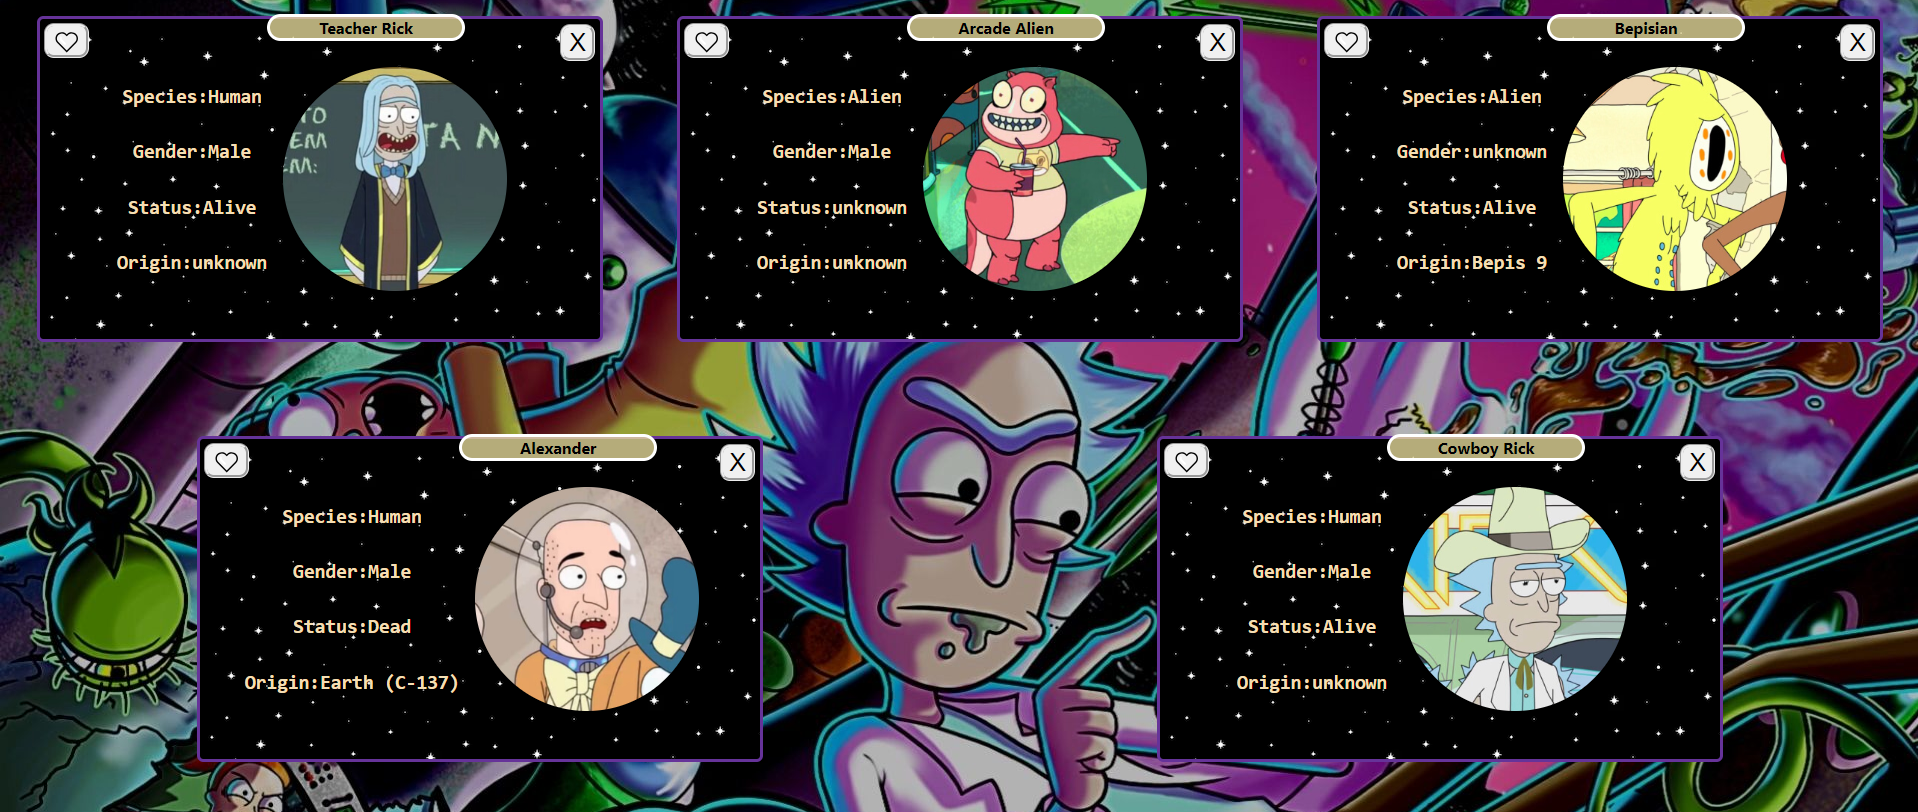
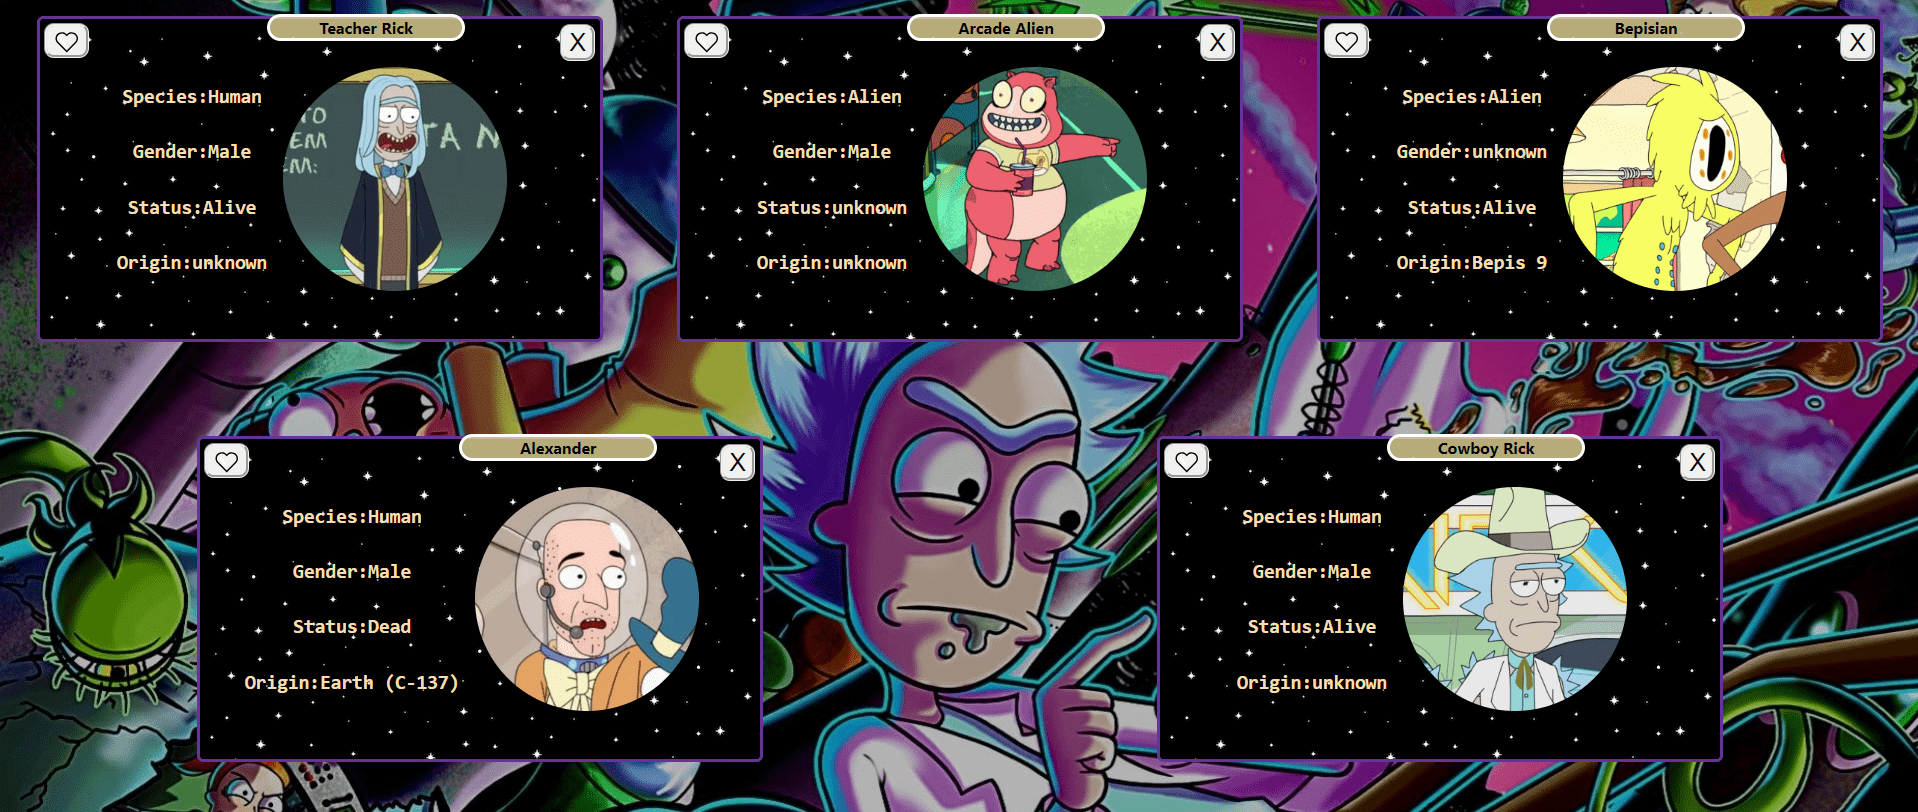
finish?

Changed region(s): [[0.4614, 0.2155, 0.4922, 0.2463], [0.4307, 0.8005, 0.4614, 0.8313]]

diff --git a/style.css b/style.css
@@ -105,8 +105,12 @@ body {
   text-decoration: none;
   color: #ffffffd8;
   font-weight: 700;
-  font-size: 1em;
+  font-size: 1.1em;
   padding: 4px;
+}
+.nav__a:hover {
+  /* color: #961d6e8f; */
+  scale: 1.1;
 }
 .header {
   line-height: 1.1;
@@ -181,7 +185,10 @@ body {
   width: 2.5em;
 }
 .home__icon:hover {
-  width: 2.2em;
+  /* width: 2.2em; */
+  scale: 1.2;
+
+  cursor: pointer;
 }
 
 .home__img {
@@ -229,8 +236,6 @@ body {
 }
 .projects {
   background: #0d314a;
-  /* width: 100vw; */
-  /* max-width: 100vw; */
 }
 .cards {
   display: flex;
@@ -239,45 +244,36 @@ body {
   gap: 32px;
 }
 .card {
-  /* padding: 50px; */
   width: 95%;
   height: auto;
-  /* ! Altura a checkearrr */
-  /* height: 25vh; */
   border: 1px #ffffff91 solid;
-
   border-radius: 10px;
   background: #171321;
-  /* position: relative; */
   padding: 16px;
   display: flex;
   flex-direction: column;
-  /* justify-content: flex-end; */
+  transition: scale 0.2s ease;
+}
+.card:hover {
+  scale: 1.01;
 }
 .card__title {
-  color: #961d6e;
-  color: #fae452;
-  color: #ffe742;
   color: #fff;
-
   text-transform: uppercase;
   font-size: 1.3em;
   padding-top: 8px;
+  text-align: center;
 }
 
 .card__container__content {
-  /* padding-right: 12px; */
-
   padding-left: 4px;
 }
 .card__image {
   width: 100%;
   height: auto;
-
   border-radius: 10px;
   transition: filter 0.5s ease;
   transition: width 0.3s ease;
-  /* z-index: 2; */
 }
 .card:hover .card__image {
   filter: grayscale(0%);
@@ -288,7 +284,6 @@ body {
   font-size: 1em;
   border-bottom: 1px solid transparent;
   transition: border-bottom 0.3s ease, font-size 0.3s ease;
-  /* display: inline-block; */
 }
 .card__link--second {
   margin-left: 8px;
@@ -296,13 +291,11 @@ body {
 .card__link:hover {
   font-size: 1.1em;
   border-bottom: 1px solid #dd65b5;
-
-  /* color: #fae452; */
 }
 .card__p {
   color: #d3d0d0;
   font-size: 1em;
-  text-align: left;
+  text-align: center;
 }
 .card--last {
   margin-bottom: 32px;
@@ -322,7 +315,6 @@ body {
 }
 .tags__tag {
   color: #171321;
-  /* background: #2d5877; */
   font-size: 0.7em;
   border-radius: 4px;
   padding: 2px;
@@ -351,14 +343,12 @@ body {
 
 .about__container_p {
   padding: 16px 32px;
-  /* margin-top: 16px; */
   background: #171321;
   border: 1px #961d6e solid;
   border-radius: 16px;
 }
 .about__p {
   color: #d3d0d0;
-  /* font-weight: 900; */
 }
 .contact {
   display: flex;
@@ -370,8 +360,6 @@ body {
   flex-direction: column;
   width: 100%;
   padding: 16px;
-  /* max-width: 80%; */
-  /* align-items: center; */
 }
 .form__section {
   display: flex;
@@ -402,7 +390,6 @@ body {
   padding: 10px;
   border-radius: 10px;
   border: none;
-  /* text-transform: uppercase; */
   transition: padding 0.1s ease-in-out;
   background: #dd65b5;
   color: #fff;
@@ -425,7 +412,6 @@ body {
     width: 320px;
   }
   .home__parrafo {
-    /* font-size: 1.4em; */
     width: 90%;
   }
   .icon-container {
@@ -457,7 +443,7 @@ body {
     font-size: 1.1em;
   }
   .nav__a {
-    font-size: 1.1em;
+    font-size: 1.4em;
   }
 }
 
@@ -510,7 +496,7 @@ body {
     font-size: 1.4em;
   }
   .nav__a {
-    font-size: 1.6em;
+    font-size: 1.8em;
   }
   .form {
     width: 80%;
@@ -527,9 +513,6 @@ body {
   .sections__titles {
     font-size: 2.5em;
   }
-  /* .home__img {
-    width: 400px;
-  } */
   .header__title {
     font-size: 7em;
   }
@@ -551,11 +534,11 @@ body {
   .skills__container {
     width: 70%;
   }
+  .nav__a {
+    font-size: 1.8em;
+  }
 }
 @media screen and (min-width: 1024px) {
-  .card__image {
-    filter: grayscale(80%);
-  }
   .sections__titles {
     font-size: 2.5em;
   }
@@ -577,9 +560,15 @@ body {
     width: 45%;
   }
   .card {
-    width: 60%;
+    /* width: 60%; */
+    padding: 32px;
+    flex-direction: row;
   }
-
+  .card__image {
+    filter: grayscale(80%);
+    width: 50%;
+    margin-right: 24px;
+  }
   .about__container_p {
     width: 60%;
   }
@@ -587,7 +576,4 @@ body {
   .form {
     width: 60%;
   }
-}
-
-@media screen and (min-width: 1328px) {
 }

diff --git a/index.html b/index.html
@@ -6,7 +6,7 @@
     <link rel="stylesheet" href="./style.css" />
     <link
       rel="icon"
-      href="./assets/image/yo animado degrades.png"
+      href="./assets/image/yo-animado-degrades.png"
       type="image/x-icon"
     />
     <title>Santiago Castillo</title>
@@ -41,7 +41,7 @@
           <div class="home__container">
             <img
               class="home__img"
-              src="./assets/image/yo animado degrades.png"
+              src="./assets/image/yo-animado-degrades.png"
               alt="Santiago-Castillo-animado"
             />
             <p class="home__parrafo"
@@ -88,6 +88,7 @@
               src="./assets/image/Screenshot_1.png"
               alt="Doggyklopedia"
             />
+            <div>
 
             <header>
               <h3 class="card__title">Doggyklopedia</h3>
@@ -151,21 +152,23 @@
                 Github →
               </a>
             </div>
+          </div>
           </article>
+
           <article class="card">
             <img
               class="card__image"
               src="./assets/image/rick&morty.png"
               alt="Doggyklopedia"
             />
+<div>
 
             <header>
               <h3 class="card__title">Rick & Morty</h3>
             </header>
             <div class="card__container__content">
               <p class="card__p">
-                Aplicación web enfocada en proveer información detallada sobre
-                las distintas razas de perros en el mundo.
+                Aplicación web inspirada en "Rick and Morty", permitiendo explorar información sobre los personajes de este mundo!
               </p>
             </div>
 
@@ -219,6 +222,8 @@
             </div>
           </article>
         </div>
+</div>
+
           </article>
 
       </section>
